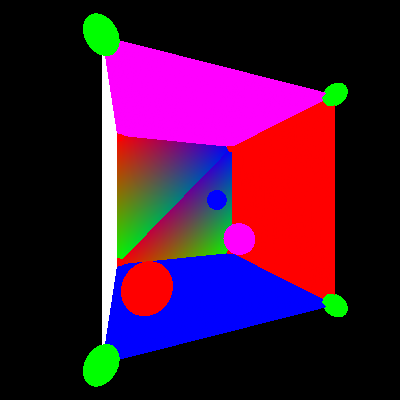
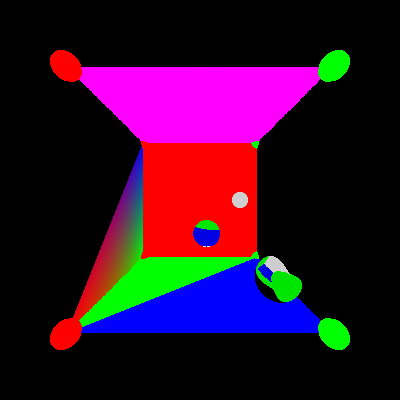
Use floating point colours

diff --git a/src/cornell_box.rs b/src/cornell_box.rs
@@ -2,11 +2,11 @@ use crate::objects::*;
 use crate::scene::*;
 use crate::visualiser::*;
 
-const RED: [u8; 3] = [255, 0, 0];
-const GREEN: [u8; 3] = [0, 255, 0];
-const BLUE: [u8; 3] = [0, 0, 255];
-const WHITE: [u8; 3] = [255, 255, 255];
-const PURPLE: [u8; 3] = [255, 0, 255];
+const RED: ColourFloat = ColourFloat::new(255., 0., 0.);
+const GREEN: ColourFloat = ColourFloat::new(0., 255., 0.);
+const BLUE: ColourFloat = ColourFloat::new(0., 0., 255.);
+const WHITE: ColourFloat = ColourFloat::new(255., 255., 255.);
+const PURPLE: ColourFloat = ColourFloat::new(255., 0., 255.);
 
 pub fn get_scene2() -> Scene {
     // Vertices
@@ -52,12 +52,12 @@ pub fn get_scene2() -> Scene {
     };
 
     // Walls
-    let bottom1 = Object::Triangle(Triangle::new(p2, p1, p0, [BLUE; 3], Material::Diffuse));
+    let bottom1 = Object::Triangle(Triangle::new(p2, p1, p0, [GREEN; 3], Material::Diffuse));
     let bottom2 = Object::Triangle(Triangle::new(p2, p3, p1, [BLUE; 3], Material::Diffuse));
     let left1 = Object::Triangle(Triangle::new(p0, p1, p6, [RED; 3], Material::Diffuse));
     let left2 = Object::Triangle(Triangle::new(p7, p6, p1, [RED; 3], Material::Diffuse));
-    let back1 = Object::Triangle(Triangle::new(p7, p1, p3, [GREEN; 3], Material::Diffuse));
-    let back2 = Object::Triangle(Triangle::new(p3, p5, p7, [GREEN; 3], Material::Diffuse));
+    let back1 = Object::Triangle(Triangle::new(p7, p1, p3, [GREEN; 3], Material::Specular));
+    let back2 = Object::Triangle(Triangle::new(p3, p5, p7, [GREEN; 3], Material::Specular));
     let right1 = Object::Triangle(Triangle::new(p5, p3, p4, [WHITE; 3], Material::Diffuse));
     let right2 = Object::Triangle(Triangle::new(p3, p2, p4, [WHITE; 3], Material::Diffuse));
     let top1 = Object::Triangle(Triangle::new(p6, p7, p4, [PURPLE; 3], Material::Diffuse));
@@ -74,7 +74,7 @@ pub fn get_scene2() -> Scene {
         p4,
         p2,
         [RED, GREEN, BLUE],
-        Material::Diffuse,
+        Material::Specular,
     ));
 
     let sphere0 = Object::Sphere(Sphere {
@@ -136,7 +136,7 @@ pub fn get_scene2() -> Scene {
         centre: p_centre,
         radius: 1.0,
         colour: BLUE,
-        material: Material::Diffuse,
+        material: Material::Specular,
     });
     let p_mid_centre = Point {
         x: -5.0,
@@ -147,7 +147,7 @@ pub fn get_scene2() -> Scene {
         centre: p_mid_centre,
         radius: 2.0,
         colour: PURPLE,
-        material: Material::Diffuse,
+        material: Material::Specular,
     });
     let p_back_centre = Point {
         x: 7.0,
@@ -158,7 +158,7 @@ pub fn get_scene2() -> Scene {
         centre: p_back_centre,
         radius: 2.0,
         colour: RED,
-        material: Material::Diffuse,
+        material: Material::Specular,
     });
 
     let objects = vec![
@@ -189,63 +189,63 @@ pub fn get_scene2() -> Scene {
     Scene { objects }
 }
 
-pub fn get_scene() -> Scene {
-    let p1 = Point {
-        x: -4.0,
-        y: 2.0,
-        z: -13.0,
-    };
-    let p2 = Point {
-        x: -2.0,
-        y: -2.0,
-        z: -7.0,
-    };
-    let p3 = Point {
-        x: 2.0,
-        y: 0.0,
-        z: -11.0,
-    };
-    let sphere1 = Object::Sphere(Sphere {
-        centre: p1,
-        radius: 1.0,
-        colour: RED,
-        material: Material::Diffuse,
-    });
-    let sphere2 = Object::Sphere(Sphere {
-        centre: p2,
-        radius: 1.0,
-        colour: GREEN,
-        material: Material::Diffuse,
-    });
-    let sphere3 = Object::Sphere(Sphere {
-        centre: p3,
-        radius: 1.0,
-        colour: BLUE,
-        material: Material::Diffuse,
-    });
-    let v0 = Point {
-        x: p1.x,
-        y: p1.y,
-        z: p1.z + 2.0,
-    };
-    let v1 = Point {
-        x: p2.x,
-        y: p2.y,
-        z: p2.z + 2.0,
-    };
-    let v2 = Point {
-        x: p3.x,
-        y: p3.y,
-        z: p3.z + 2.0,
-    };
-    let triangle1 = Object::Triangle(Triangle::new(
-        p1,
-        p2,
-        p3,
-        [GREEN, BLUE, RED],
-        Material::Diffuse,
-    ));
-    Scene {
-        objects: vec![sphere1, sphere2, sphere3, triangle1],
-    }
-}
+// pub fn get_scene() -> Scene {
+//     let p1 = Point {
+//         x: -4.0,
+//         y: 2.0,
+//         z: -13.0,
+//     };
+//     let p2 = Point {
+//         x: -2.0,
+//         y: -2.0,
+//         z: -7.0,
+//     };
+//     let p3 = Point {
+//         x: 2.0,
+//         y: 0.0,
+//         z: -11.0,
+//     };
+//     let sphere1 = Object::Sphere(Sphere {
+//         centre: p1,
+//         radius: 1.0,
+//         colour: RED,
+//         material: Material::Diffuse,
+//     });
+//     let sphere2 = Object::Sphere(Sphere {
+//         centre: p2,
+//         radius: 1.0,
+//         colour: GREEN,
+//         material: Material::Diffuse,
+//     });
+//     let sphere3 = Object::Sphere(Sphere {
+//         centre: p3,
+//         radius: 1.0,
+//         colour: BLUE,
+//         material: Material::Diffuse,
+//     });
+//     let v0 = Point {
+//         x: p1.x,
+//         y: p1.y,
+//         z: p1.z + 2.0,
+//     };
+//     let v1 = Point {
+//         x: p2.x,
+//         y: p2.y,
+//         z: p2.z + 2.0,
+//     };
+//     let v2 = Point {
+//         x: p3.x,
+//         y: p3.y,
+//         z: p3.z + 2.0,
+//     };
+//     let triangle1 = Object::Triangle(Triangle::new(
+//         p1,
+//         p2,
+//         p3,
+//         [GREEN, BLUE, RED],
+//         Material::Diffuse,
+//     ));
+//     Scene {
+//         objects: vec![sphere1, sphere2, sphere3, triangle1],
+//     }
+// }

diff --git a/src/objects.rs b/src/objects.rs
@@ -17,13 +17,13 @@ pub struct Triangle {
     pub v0: Point,
     pub v1: Point,
     pub v2: Point,
-    pub colours: [Colour; 3],
+    pub colours: [ColourFloat; 3],
     pub material: Material,
     normal: Vector,
 }
 
 impl Triangle {
-    pub fn new(v0: Point, v1: Point, v2: Point, colours: [Colour; 3], material: Material) -> Self {
+    pub fn new(v0: Point, v1: Point, v2: Point, colours: [ColourFloat; 3], material: Material) -> Self {
         Triangle {
             v0,
             v1,
@@ -36,48 +36,46 @@ impl Triangle {
 }
 
 fn compute_normal(v0: Point, v1: Point, v2: Point) -> Vector {
-    let e1 = Vector::new(v1.x - v0.x, v1.y - v0.y, v1.z - v0.z);
-    let e2 = Vector::new(v2.x - v0.x, v2.y - v0.y, v2.z - v0.z);
-    e2.cross(e1).normalize()
+    let v1v0 = v1 - v0;
+    let v2v0 = v2 - v0;
+    v2v0.cross(v1v0).normalize()
 }
 
 pub struct Sphere {
     pub centre: Point,
     pub radius: f32,
-    pub colour: Colour,
+    pub colour: ColourFloat,
     pub material: Material,
 }
 
 pub trait Coloured {
-    fn get_colour(&self, texture_coords: BarycentricCoords) -> Colour;
+    fn get_colour(&self, texture_coords: BarycentricCoords) -> ColourFloat;
 }
 
-fn as_float(colour: Colour) -> ColourFloat {
+pub fn as_float(colour: Colour) -> ColourFloat {
     ColourFloat::new(colour[0] as f32, colour[1] as f32, colour[2] as f32)
 }
 
-fn as_int(colour: ColourFloat) -> Colour {
+pub fn as_int(colour: ColourFloat) -> Colour {
     [colour[0] as u8, colour[1] as u8, colour[2] as u8]
 }
 
 impl Coloured for Triangle {
-    fn get_colour(&self, texture_coords: BarycentricCoords) -> Colour {
-        as_int(
-            texture_coords.u * as_float(self.colours[0])
-                + texture_coords.v * as_float(self.colours[1])
-                + texture_coords.w * as_float(self.colours[2]),
-        )
+    fn get_colour(&self, texture_coords: BarycentricCoords) -> ColourFloat {
+        texture_coords.u * self.colours[0]
+        + texture_coords.v * self.colours[1]
+        + texture_coords.w * self.colours[2]
     }
 }
 
 impl Coloured for Sphere {
-    fn get_colour(&self, _texture_coords: BarycentricCoords) -> Colour {
+    fn get_colour(&self, _texture_coords: BarycentricCoords) -> ColourFloat {
         self.colour
     }
 }
 
 impl Coloured for Object {
-    fn get_colour(&self, texture_coords: BarycentricCoords) -> Colour {
+    fn get_colour(&self, texture_coords: BarycentricCoords) -> ColourFloat {
         use Object::*;
         match *self {
             Triangle(ref t) => t.get_colour(texture_coords),

diff --git a/src/rays.rs b/src/rays.rs
@@ -5,6 +5,8 @@ use crate::utils;
 use crate::visualiser::*;
 use cgmath::prelude::*;
 
+const BACKGROUND: ColourFloat = ColourFloat::new(0.0, 0.0, 0.0);
+
 pub struct Ray {
     pub start: Point,
     pub dir: Vector,
@@ -26,7 +28,7 @@ impl Ray {
     }
 }
 
-pub fn trace(ray: Ray, scene: &Scene, depth: u32) -> Colour {
+pub fn trace(ray: Ray, scene: &Scene, depth: u32) -> ColourFloat {
     match scene.closest_intersection(&ray) {
         Some(i) => {
             let isect_position: Point = i.location.distance * ray.dir;
@@ -39,7 +41,7 @@ pub fn trace(ray: Ray, scene: &Scene, depth: u32) -> Colour {
                             start: isect_position + (normal * 0.005),
                             dir: ray.reflect(&normal),
                         };
-                        trace(reflected_ray, scene, depth - 1)
+                        0.9 * trace(reflected_ray, scene, depth - 1)
                     } else {
                         i.object.get_colour(i.location.texture_coords)
                     }
@@ -47,6 +49,6 @@ pub fn trace(ray: Ray, scene: &Scene, depth: u32) -> Colour {
                 Diffuse => i.object.get_colour(i.location.texture_coords),
             }
         }
-        _ => [0, 0, 0],
+        _ => BACKGROUND,
     }
 }

diff --git a/src/main.rs b/src/main.rs
@@ -17,7 +17,7 @@ fn main() {
         y: 0.0,
         z: 25.0,
     };
-    let camera = Camera::new(p0, 1.0,160.0);
+    let camera = Camera::new(p0, 1.0, 90.0);
 
     let mut visualiser = Visualiser::new(400, 400, camera);
 
@@ -27,7 +27,7 @@ fn main() {
     for y in 0..visualiser.screen.height() {
         for x in 0..visualiser.screen.width() {
             let cam_ray = visualiser.create_camera_ray(x, y);
-            visualiser.put_pixel(x, y, crate::rays::trace(cam_ray, &scene, 5));
+            visualiser.put_pixel(x, y, crate::objects::as_int(crate::rays::trace(cam_ray, &scene, 5)));
         }
     }
     let render_time = start_render.elapsed().as_millis();
